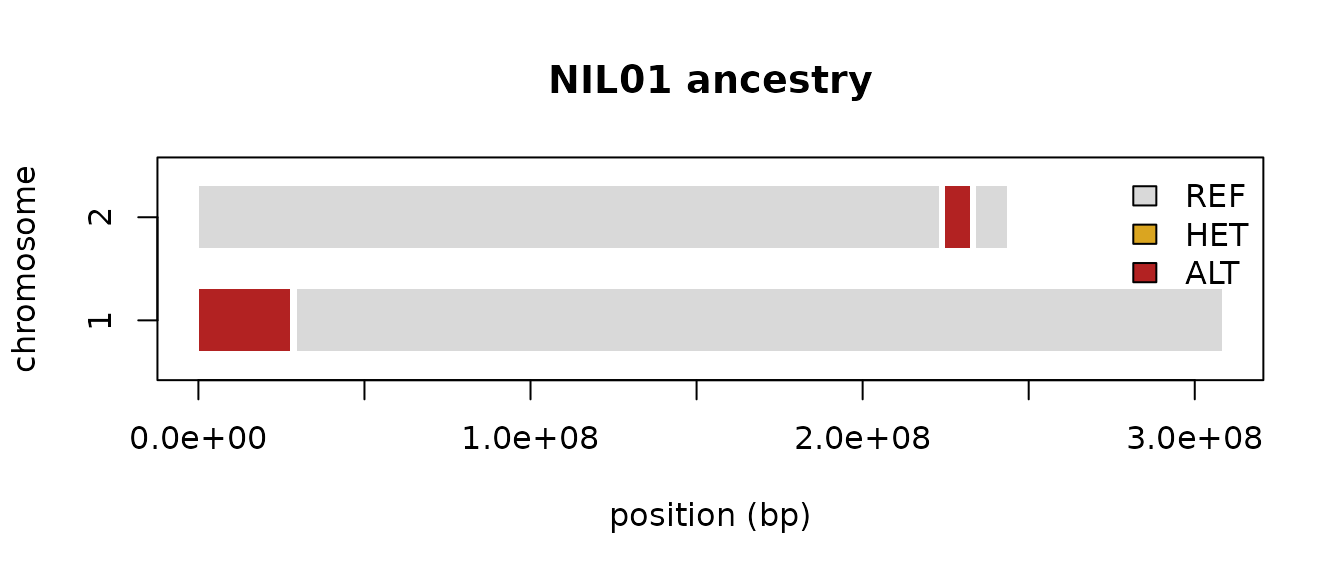
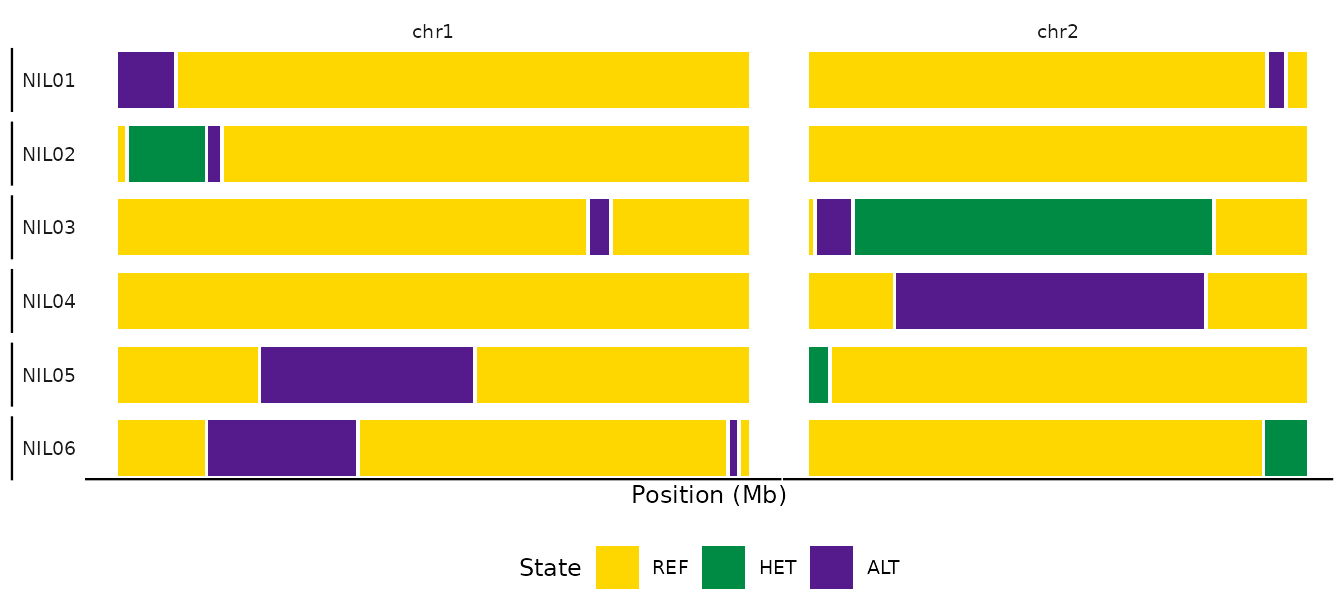
Deploying to gh-pages from @ sawers-rellan-labs/nilhmm@3b27bdabf867f6f45955f95df18bbdb60b43e665 🚀

diff --git a/articles/nilHMM.html b/articles/nilHMM.html
@@ -188,18 +188,11 @@ results are directly comparable across callers and populations:</p>
 <span><span class="co">#&gt;  0  1  2 </span></span>
 <span><span class="co">#&gt; 20  4  9</span></span></code></pre></div>
 <p>Numeric states are <code>0 = REF</code>, <code>1 = HET</code>,
-<code>2 = ALT</code>. A quick karyotype-style view of one line’s
-introgressions (base graphics, no extra packages):</p>
+<code>2 = ALT</code>. The package’s <code><a href="../reference/paint_calls.html">paint_calls()</a></code> renders
+those segments as a chromosome painting — one band per line, faceted by
+chromosome (REF gold / HET green / ALT purple):</p>
 <div class="sourceCode" id="cb6"><pre class="downlit sourceCode r">
-<code class="sourceCode R"><span><span class="va">one</span> <span class="op">&lt;-</span> <span class="va">calls</span><span class="op">[</span><span class="va">calls</span><span class="op">$</span><span class="va">name</span> <span class="op">==</span> <span class="st">"NIL01"</span>, <span class="op">]</span></span>
-<span><span class="va">cols</span> <span class="op">&lt;-</span> <span class="fu"><a href="https://rdrr.io/r/base/c.html" class="external-link">c</a></span><span class="op">(</span><span class="st">"0"</span> <span class="op">=</span> <span class="st">"grey85"</span>, <span class="st">"1"</span> <span class="op">=</span> <span class="st">"goldenrod"</span>, <span class="st">"2"</span> <span class="op">=</span> <span class="st">"firebrick"</span><span class="op">)</span></span>
-<span><span class="fu"><a href="https://rdrr.io/r/graphics/plot.default.html" class="external-link">plot</a></span><span class="op">(</span><span class="cn">NA</span>, xlim <span class="op">=</span> <span class="fu"><a href="https://rdrr.io/r/base/c.html" class="external-link">c</a></span><span class="op">(</span><span class="fl">0</span>, <span class="fu"><a href="https://rdrr.io/r/base/Extremes.html" class="external-link">max</a></span><span class="op">(</span><span class="va">one</span><span class="op">$</span><span class="va">end_bp</span><span class="op">)</span><span class="op">)</span>, ylim <span class="op">=</span> <span class="fu"><a href="https://rdrr.io/r/base/c.html" class="external-link">c</a></span><span class="op">(</span><span class="fl">0.5</span>, <span class="fu"><a href="https://rdrr.io/r/base/Extremes.html" class="external-link">max</a></span><span class="op">(</span><span class="va">one</span><span class="op">$</span><span class="va">chr</span><span class="op">)</span> <span class="op">+</span> <span class="fl">0.5</span><span class="op">)</span>,</span>
-<span>     xlab <span class="op">=</span> <span class="st">"position (bp)"</span>, ylab <span class="op">=</span> <span class="st">"chromosome"</span>, yaxt <span class="op">=</span> <span class="st">"n"</span>,</span>
-<span>     main <span class="op">=</span> <span class="st">"NIL01 ancestry"</span><span class="op">)</span></span>
-<span><span class="fu"><a href="https://rdrr.io/r/graphics/axis.html" class="external-link">axis</a></span><span class="op">(</span><span class="fl">2</span>, at <span class="op">=</span> <span class="fu"><a href="https://rdrr.io/r/base/sort.html" class="external-link">sort</a></span><span class="op">(</span><span class="fu"><a href="https://rdrr.io/r/base/unique.html" class="external-link">unique</a></span><span class="op">(</span><span class="va">one</span><span class="op">$</span><span class="va">chr</span><span class="op">)</span><span class="op">)</span><span class="op">)</span></span>
-<span><span class="fu"><a href="https://rdrr.io/r/base/with.html" class="external-link">with</a></span><span class="op">(</span><span class="va">one</span>, <span class="fu"><a href="https://rdrr.io/r/graphics/rect.html" class="external-link">rect</a></span><span class="op">(</span><span class="va">start_bp</span>, <span class="va">chr</span> <span class="op">-</span> <span class="fl">0.3</span>, <span class="va">end_bp</span>, <span class="va">chr</span> <span class="op">+</span> <span class="fl">0.3</span>,</span>
-<span>               col <span class="op">=</span> <span class="va">cols</span><span class="op">[</span><span class="fu"><a href="https://rdrr.io/r/base/character.html" class="external-link">as.character</a></span><span class="op">(</span><span class="va">state</span><span class="op">)</span><span class="op">]</span>, border <span class="op">=</span> <span class="cn">NA</span><span class="op">)</span><span class="op">)</span></span>
-<span><span class="fu"><a href="https://rdrr.io/r/graphics/legend.html" class="external-link">legend</a></span><span class="op">(</span><span class="st">"topright"</span>, fill <span class="op">=</span> <span class="va">cols</span>, legend <span class="op">=</span> <span class="fu"><a href="https://rdrr.io/r/base/c.html" class="external-link">c</a></span><span class="op">(</span><span class="st">"REF"</span>, <span class="st">"HET"</span>, <span class="st">"ALT"</span><span class="op">)</span>, bty <span class="op">=</span> <span class="st">"n"</span><span class="op">)</span></span></code></pre></div>
+<code class="sourceCode R"><span><span class="fu"><a href="../reference/paint_calls.html">paint_calls</a></span><span class="op">(</span><span class="va">calls</span><span class="op">)</span></span></code></pre></div>
 <p><img src="nilHMM_files/figure-html/plot-1.png" class="r-plt" alt="" width="672"></p>
 </div>
 <div class="section level2">

diff --git a/articles/nilHMM.md b/articles/nilHMM.md
@@ -107,21 +107,14 @@ table(calls$state)
 #> 20  4  9
 ```
 
-Numeric states are `0 = REF`, `1 = HET`, `2 = ALT`. A quick
-karyotype-style view of one line’s introgressions (base graphics, no
-extra packages):
+Numeric states are `0 = REF`, `1 = HET`, `2 = ALT`. The package’s
+[`paint_calls()`](https://sawers-rellan-labs.github.io/nilhmm/reference/paint_calls.md)
+renders those segments as a chromosome painting — one band per line,
+faceted by chromosome (REF gold / HET green / ALT purple):
 
 ``` r
 
-one <- calls[calls$name == "NIL01", ]
-cols <- c("0" = "grey85", "1" = "goldenrod", "2" = "firebrick")
-plot(NA, xlim = c(0, max(one$end_bp)), ylim = c(0.5, max(one$chr) + 0.5),
-     xlab = "position (bp)", ylab = "chromosome", yaxt = "n",
-     main = "NIL01 ancestry")
-axis(2, at = sort(unique(one$chr)))
-with(one, rect(start_bp, chr - 0.3, end_bp, chr + 0.3,
-               col = cols[as.character(state)], border = NA))
-legend("topright", fill = cols, legend = c("REF", "HET", "ALT"), bty = "n")
+paint_calls(calls)
 ```
 
 ![](nilHMM_files/figure-html/plot-1.png)